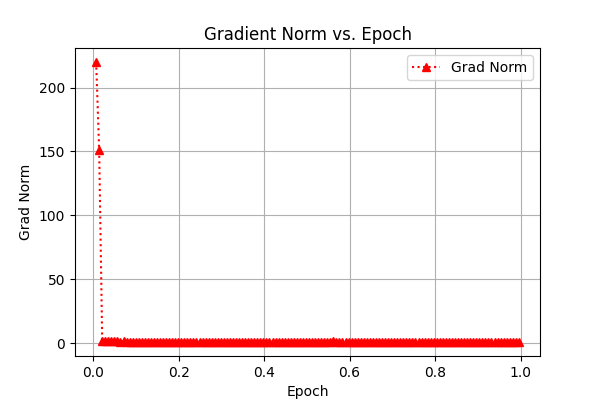
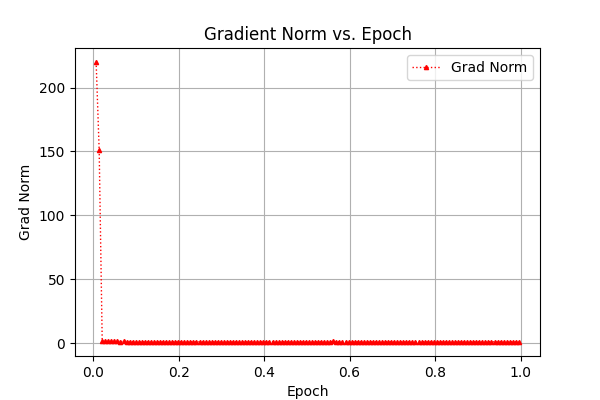
Update log1

diff --git a/draw.py b/draw.py
@@ -2,36 +2,33 @@ import json
 import matplotlib.pyplot as plt
 import os
 
-# 读取 trainer_state.json
 trainer_state_path = "./phi-3-deepseek-finetuned/checkpoint-7029/trainer_state.json"
 
 with open(trainer_state_path, "r") as f:
     trainer_state = json.load(f)
 
-# 提取 log_history（包含 loss、learning_rate 和 grad_norm）
 log_history = trainer_state["log_history"]
 
-# 初始化数据存储
 epochs = []
 losses = []
 learning_rates = []
 grad_norms = []
 
-# 遍历 log_history 记录
 for entry in log_history:
-    if "epoch" in entry:  # 只取包含 epoch 记录的部分
+    if "epoch" in entry:
         epochs.append(entry["epoch"])
         losses.append(entry.get("loss", None))
         learning_rates.append(entry.get("learning_rate", None))
         grad_norms.append(entry.get("grad_norm", None))
 
-# 创建日志目录
 log_dir = "./log1"
 os.makedirs(log_dir, exist_ok=True)
 
-# 绘制并保存 Loss 曲线
+line_width = 1
+marker_size = 3
+
 plt.figure(figsize=(6, 4))
-plt.plot(epochs, losses, marker="o", linestyle="-", color="b", label="Loss")
+plt.plot(epochs, losses, marker="o", linestyle="-", linewidth=line_width, markersize=marker_size, color="b", label="Loss")
 plt.title("Loss vs. Epoch")
 plt.xlabel("Epoch")
 plt.ylabel("Loss")
@@ -40,9 +37,8 @@ plt.grid()
 plt.savefig(os.path.join(log_dir, "loss_curve.png"))
 plt.close()
 
-# 绘制并保存 Learning Rate 曲线
 plt.figure(figsize=(6, 4))
-plt.plot(epochs, learning_rates, marker="s", linestyle="--", color="g", label="Learning Rate")
+plt.plot(epochs, learning_rates, marker="s", linestyle="--", linewidth=line_width, markersize=marker_size, color="g", label="Learning Rate")
 plt.title("Learning Rate vs. Epoch")
 plt.xlabel("Epoch")
 plt.ylabel("Learning Rate")
@@ -51,9 +47,8 @@ plt.grid()
 plt.savefig(os.path.join(log_dir, "learning_rate_curve.png"))
 plt.close()
 
-# 绘制并保存 Grad Norm 曲线
 plt.figure(figsize=(6, 4))
-plt.plot(epochs, grad_norms, marker="^", linestyle=":", color="r", label="Grad Norm")
+plt.plot(epochs, grad_norms, marker="^", linestyle=":", linewidth=line_width, markersize=marker_size, color="r", label="Grad Norm")
 plt.title("Gradient Norm vs. Epoch")
 plt.xlabel("Epoch")
 plt.ylabel("Grad Norm")
